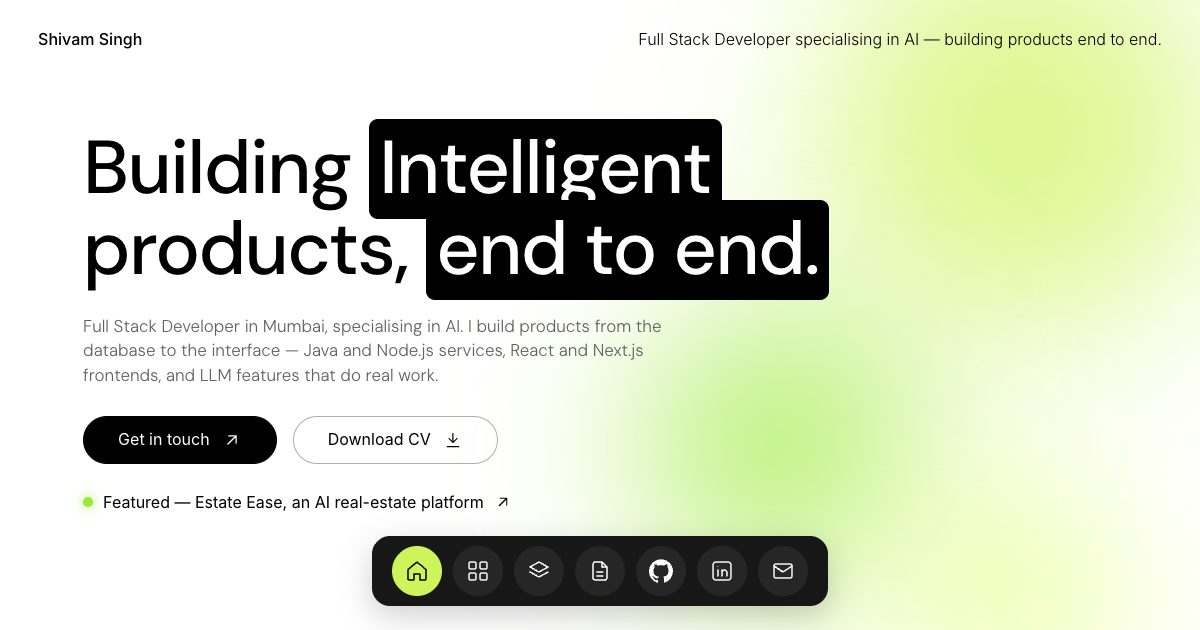
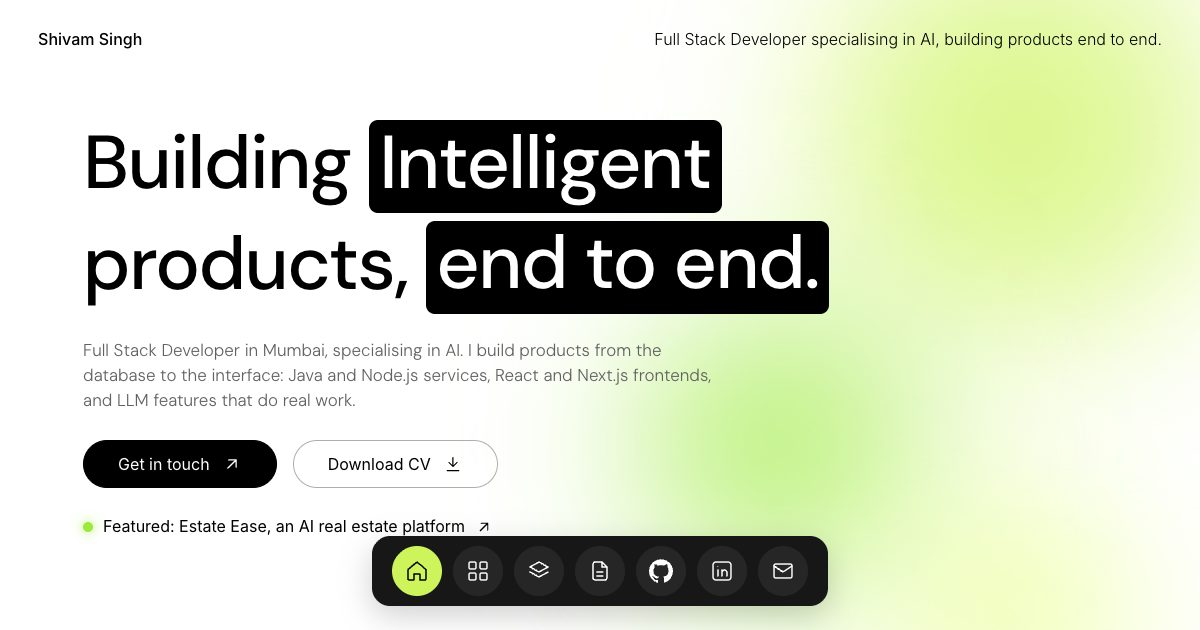
Stop hero highlight boxes overlapping the line above
Each highlighted phrase is now an inline-block with its own line height
and bottom padding, with a small gap between lines, so the second box no
longer paints over the descender of "Intelligent". Re-captured the OG
image with the fixed hero.

diff --git a/src/components/Hero.module.css b/src/components/Hero.module.css
@@ -22,13 +22,17 @@
   display: block;
 }
 
+.line + .line {
+  margin-top: 0.1em;
+}
+
 .mark {
-  padding: 0 0.14em 0.04em;
+  display: inline-block;
+  padding: 0.02em 0.14em 0.12em;
   border-radius: 0.12em;
   background: #000;
   color: #fff;
-  -webkit-box-decoration-break: clone;
-  box-decoration-break: clone;
+  line-height: 1.1;
 }
 
 .blurb {
